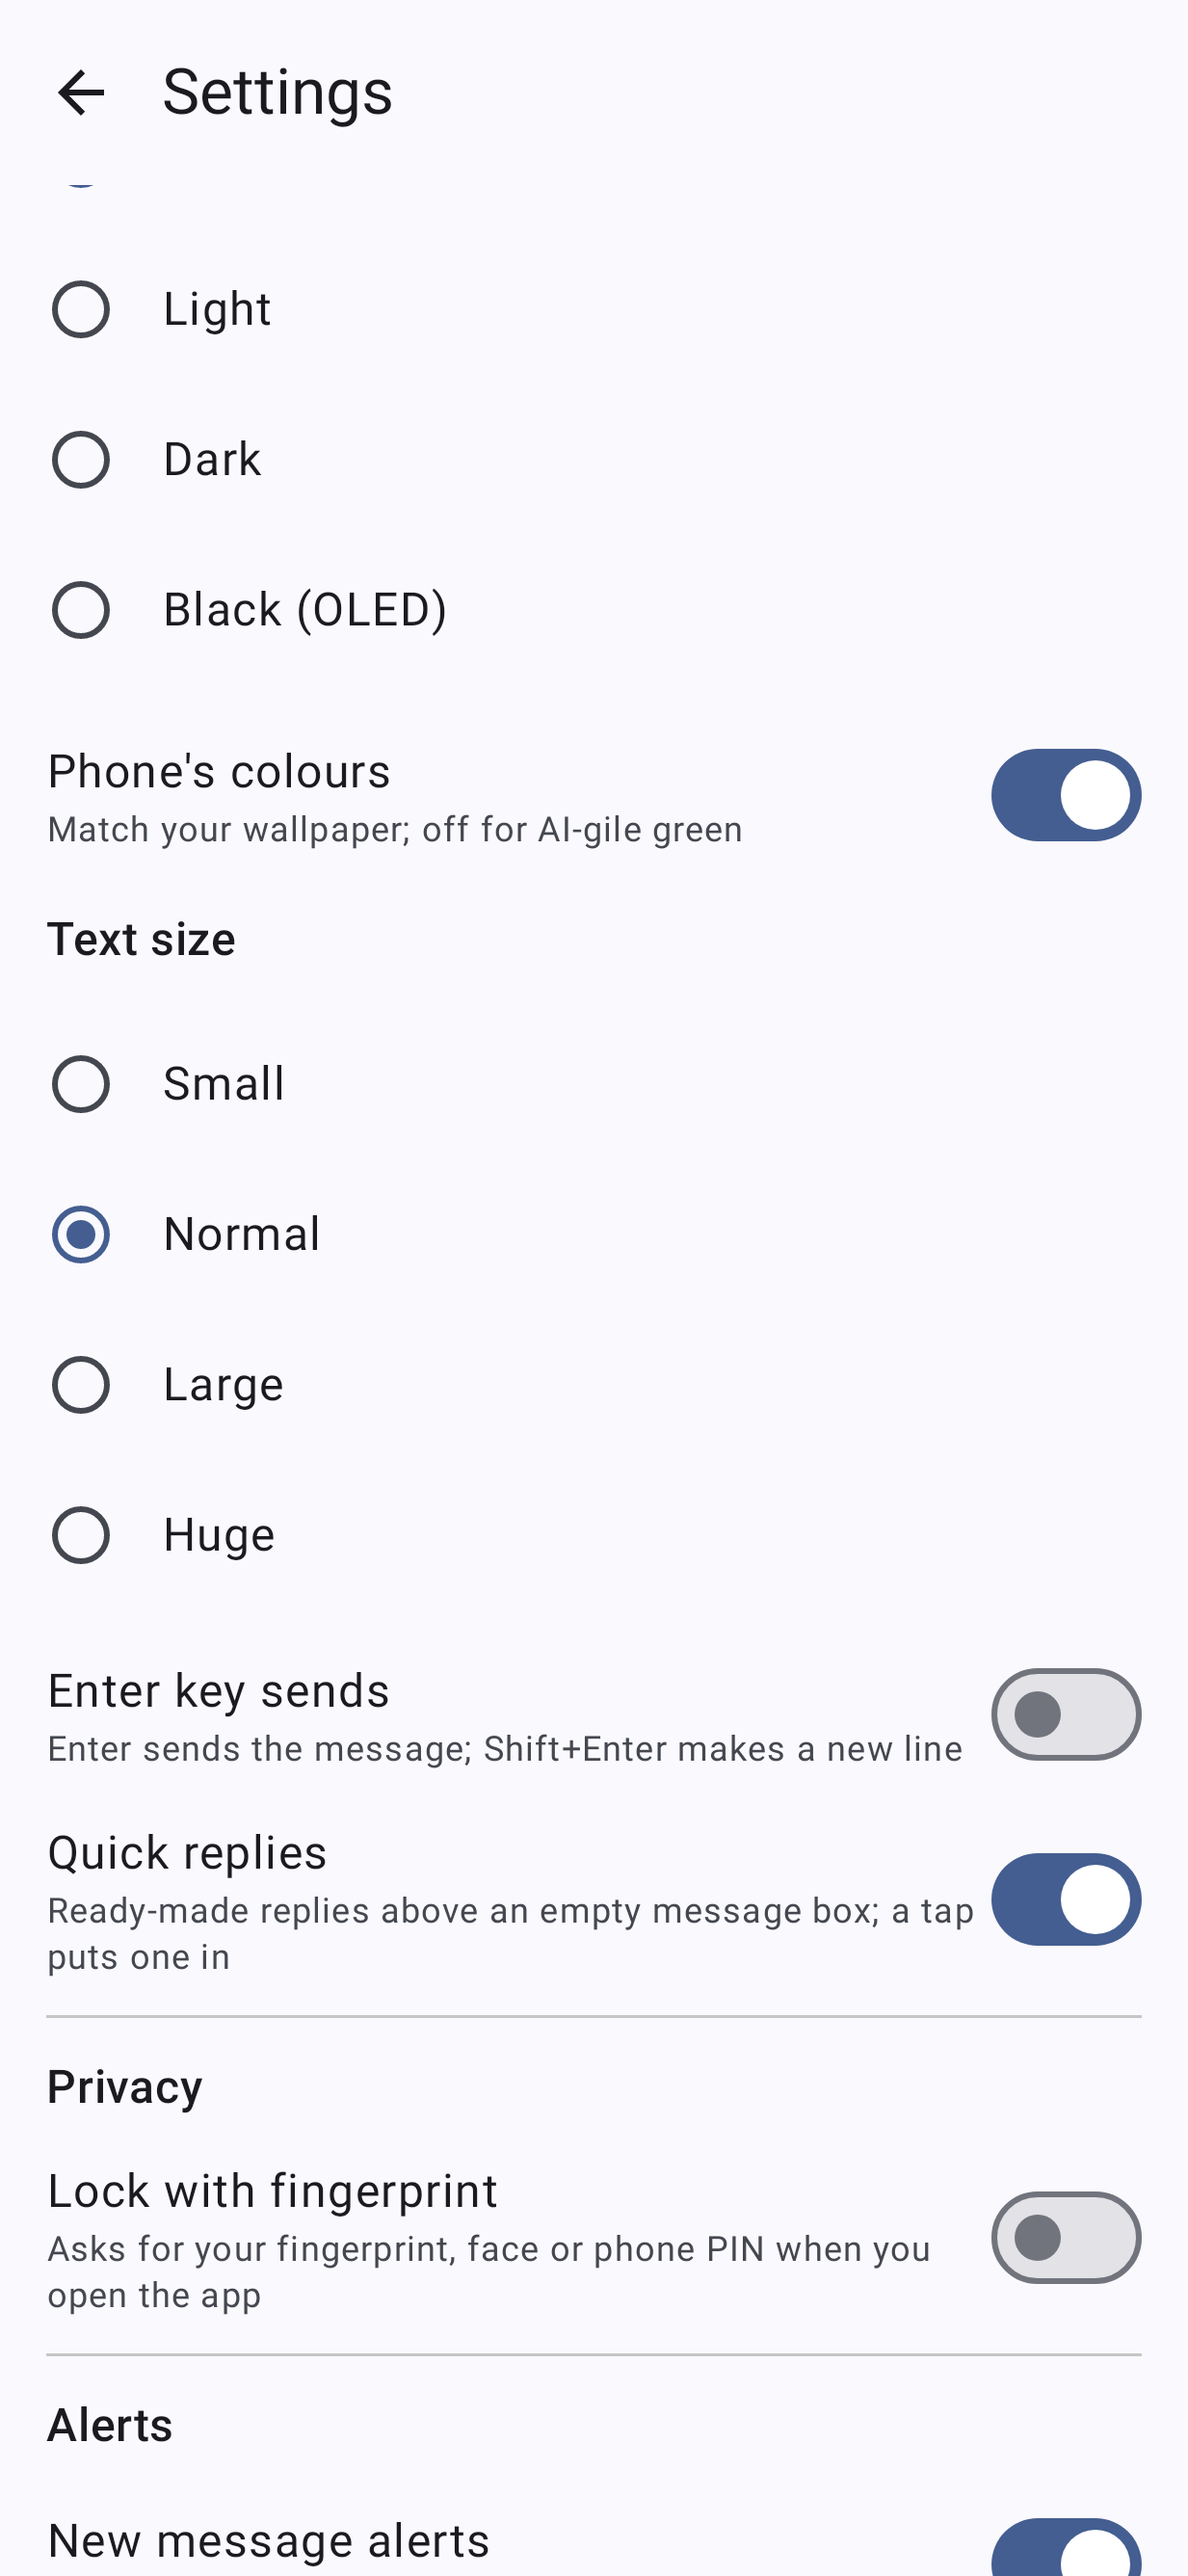
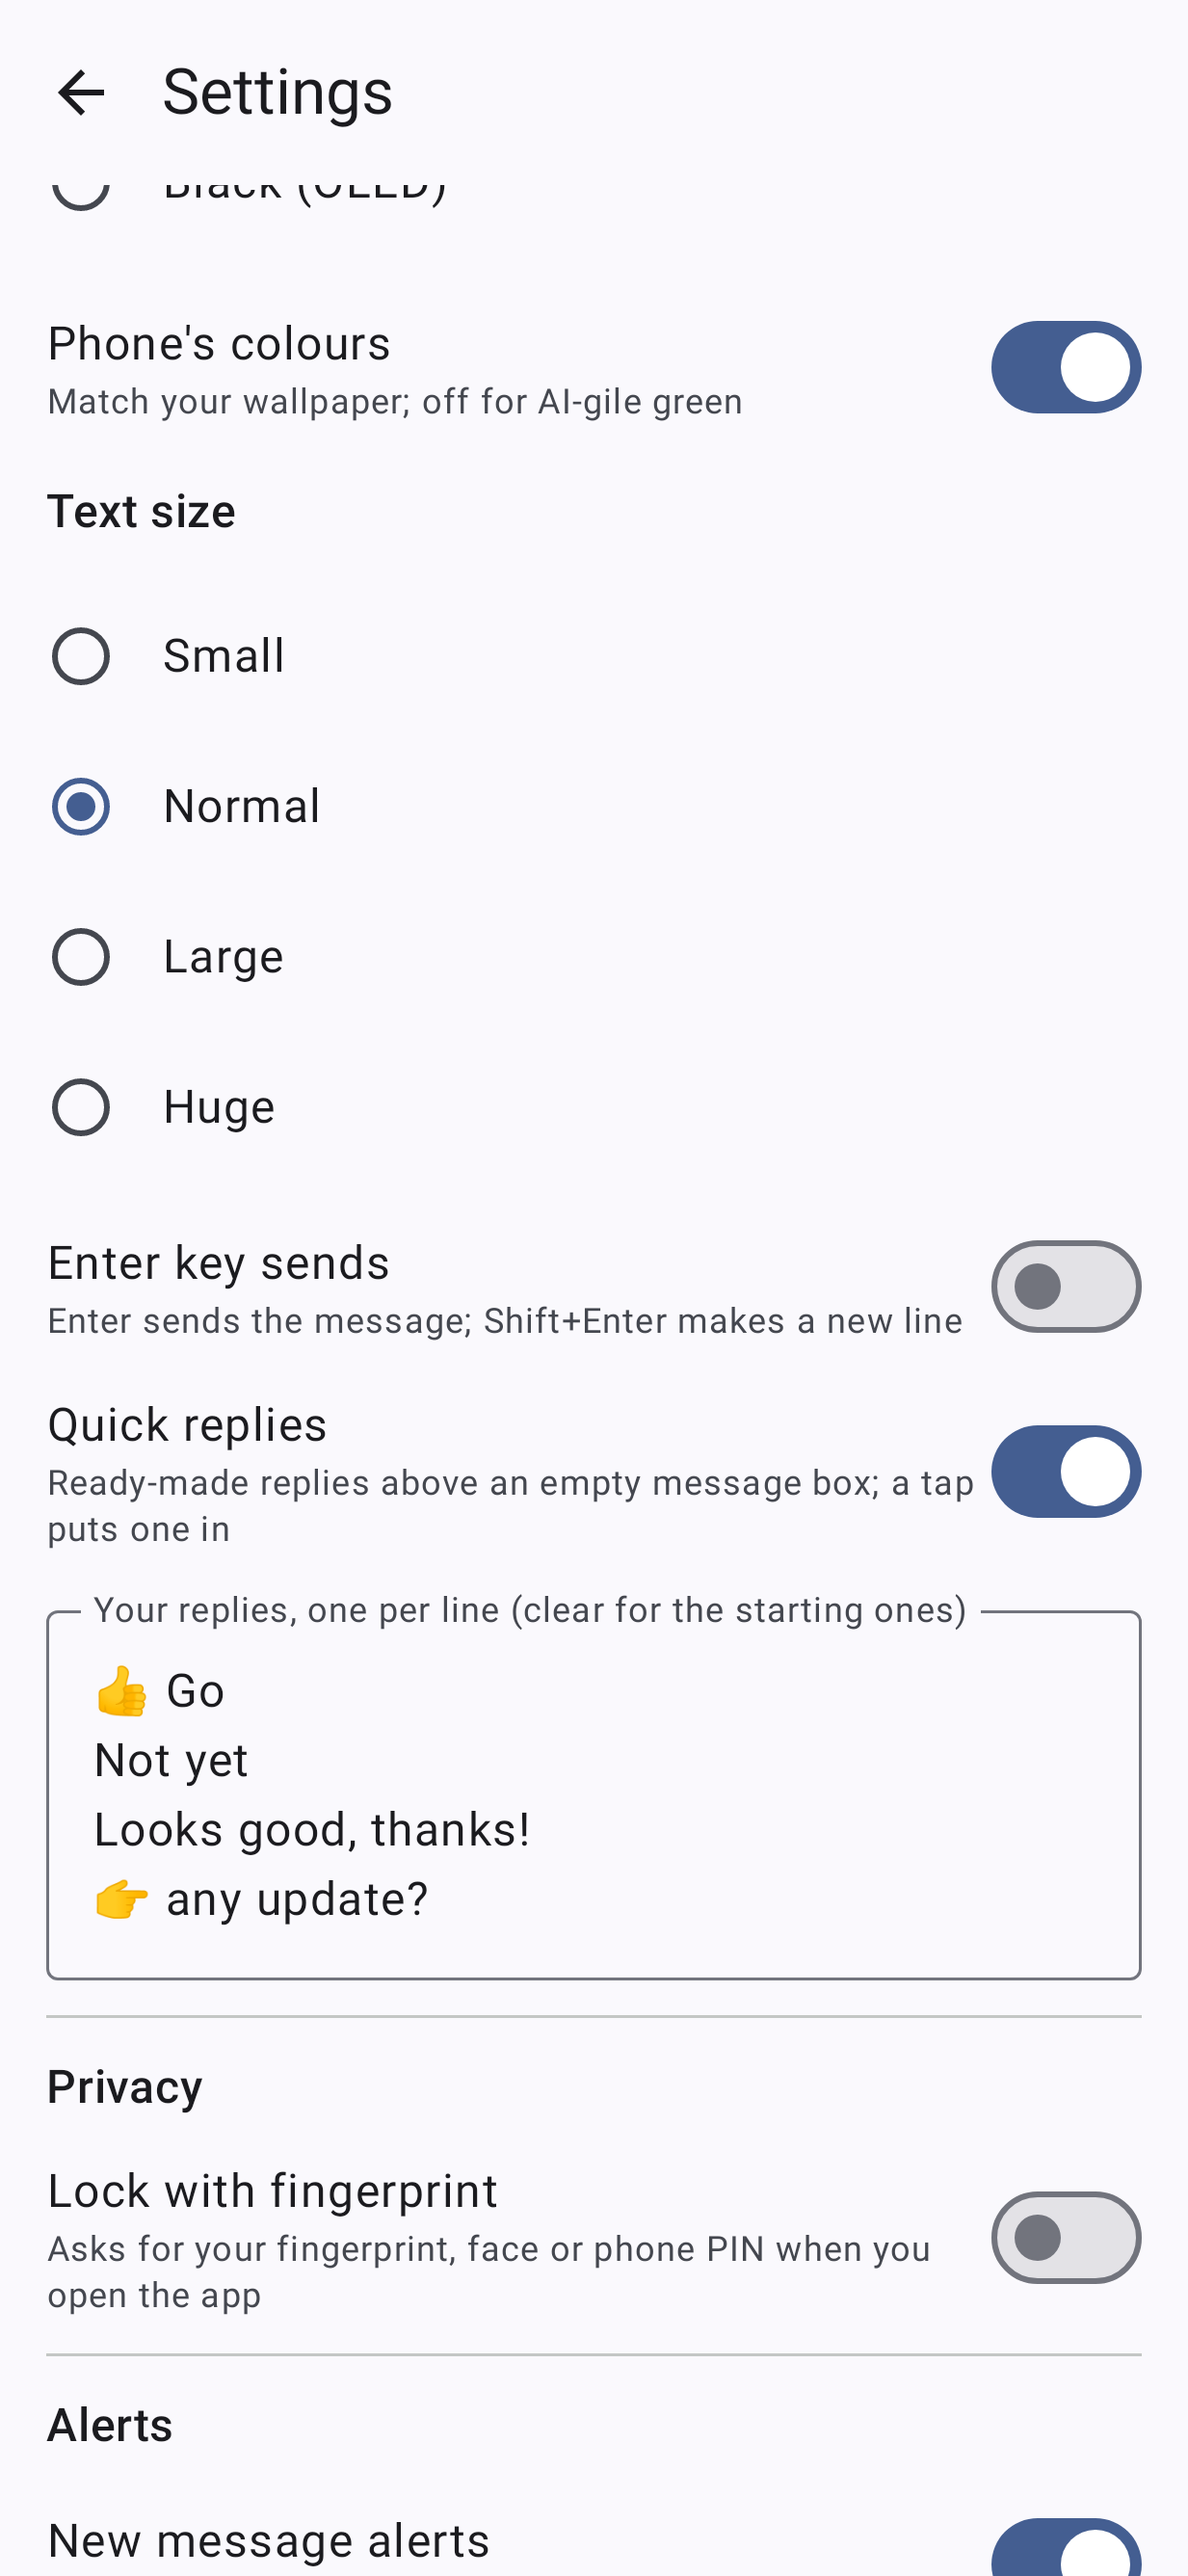
Quick replies: write your own in Settings, one per line (AII-180)

diff --git a/app/src/test/java/com/smizflark/aigile/messenger/screens/ChatShotTest.kt b/app/src/test/java/com/smizflark/aigile/messenger/screens/ChatShotTest.kt
@@ -287,6 +287,23 @@ class ChatShotTest : ShotBase() {
         rule.onNodeWithTag("quickReplies").onChildren().filterToOne(androidx.compose.ui.test.isToggleable()).performClick()
         try { org.junit.Assert.assertFalse(repo.store.quickReplies || Appearance.quickReplies) } finally { Appearance.quickReplies = false; repo.store.quickReplies = true }
     }
+    /** AII-180: type your own replies in Settings; the chat shows them; clear the box and the starting ones are back. */
+    @Test fun ownQuickReplies() {
+        val c = chats.first { it.kind == com.smizflark.aigile.messenger.data.Kind.FRIEND }; prime(c)
+        var settings by androidx.compose.runtime.mutableStateOf(true)
+        rule.setContent { MessengerTheme { if (settings) SettingsScreen(repo, {}, {}) else ChatScreen(repo, c, onBack = {}) } }
+        try {
+            rule.onNodeWithTag("quickReplyText").performScrollTo().performTextReplacement("On my way\n\nBack at 5")
+            org.junit.Assert.assertEquals(listOf("On my way", "Back at 5"), Appearance.replies)
+            settings = false; rule.waitForIdle()
+            rule.onNodeWithText("Back at 5").performClick()
+            rule.onNodeWithTag("input").assertTextEquals("Back at 5", includeEditableText = true)
+            rule.onAllNodesWithText("Not yet").assertCountEquals(0)
+            settings = true; rule.waitForIdle()
+            rule.onNodeWithTag("quickReplyText").performScrollTo().performTextReplacement("")
+            org.junit.Assert.assertEquals(emptyList<String>(), Appearance.replies)
+        } finally { Appearance.quickReplies = false; Appearance.replies = emptyList(); repo.store.quickReplyText = "" }
+    }
     /** AII-122: on a short screen, scroll to the bottom of the chats, tap the title: back at the first chat. */
     @Test @Config(qualifiers = "w411dp-h300dp-xxhdpi") fun titleTapGoesToTop() {
         RuntimeEnvironment.setQualifiers("+notnight")

diff --git a/app/src/main/java/com/smizflark/aigile/messenger/ui/SettingsScreen.kt b/app/src/main/java/com/smizflark/aigile/messenger/ui/SettingsScreen.kt
@@ -58,6 +58,8 @@ import com.smizflark.aigile.messenger.BuildConfig
 import com.smizflark.aigile.messenger.data.Mapper
 import com.smizflark.aigile.messenger.data.Crash
 import com.smizflark.aigile.messenger.data.Repo
+import com.smizflark.aigile.messenger.data.Replies
+import androidx.compose.ui.res.stringArrayResource
 import com.smizflark.aigile.messenger.work.CheckWorker
 import kotlinx.coroutines.launch
 
@@ -108,6 +110,13 @@ fun SettingsScreen(repo: Repo, onBack: () -> Unit, onSignedOut: () -> Unit) {
             }
             Toggle(stringResource(R.string.quick_replies), stringResource(R.string.quick_replies_sub), Appearance.quickReplies, Modifier.testTag("quickReplies")) {
                 Appearance.quickReplies = it; s.quickReplies = it
+            }
+            // AII-180: write your own, one per line; clear the box to get the starting ones back.
+            if (Appearance.quickReplies) {
+                val starting = stringArrayResource(R.array.quick_replies_list).joinToString("\n")
+                var mine by remember { mutableStateOf(s.quickReplyText.ifBlank { starting }) }
+                OutlinedTextField(mine, { mine = it; s.quickReplyText = it; Appearance.replies = Replies.parse(it) },
+                    Modifier.fillMaxWidth().testTag("quickReplyText"), label = { Text(stringResource(R.string.quick_replies_mine)) }, minLines = 2)
             }
             HorizontalDivider()
 

diff --git a/app/src/main/java/com/smizflark/aigile/messenger/data/Store.kt b/app/src/main/java/com/smizflark/aigile/messenger/data/Store.kt
@@ -134,6 +134,11 @@ class Store(context: Context) {
         get() = settings.getBoolean("quickReplies", true)
         set(v) = settings.edit().putBoolean("quickReplies", v).apply()
 
+    /** Your own quick replies, one per line (AII-180); empty means the starting ones. */
+    var quickReplyText: String
+        get() = settings.getString("quickReplyText", "") ?: ""
+        set(v) = settings.edit().putString("quickReplyText", v).apply()
+
     /** Chats pinned to the top of the list (AII-47), by chat key. */
     var pinned: Set<String>
         get() = settings.getStringSet("pinned", emptySet())?.toSet() ?: emptySet()
@@ -246,7 +251,7 @@ class Store(context: Context) {
     companion object {
         const val SETTINGS = "settings"
         /** The preferences that go into backup. Everything else stays in the "messenger" file. */
-        val BACKED_UP = listOf("alerts", "quietFrom", "quietTo", "quietOn", "look", "phoneColours", "textSize", "enterSends", "quickReplies", "pinned", "muted")
+        val BACKED_UP = listOf("alerts", "quietFrom", "quietTo", "quietOn", "look", "phoneColours", "textSize", "enterSends", "quickReplies", "quickReplyText", "pinned", "muted")
 
         /** One-time move of the settings out of the pairing file, so the pairing file can stay out of backup. */
         fun moveSettings(from: SharedPreferences, to: SharedPreferences) {

diff --git a/app/src/main/java/com/smizflark/aigile/messenger/ui/Theme.kt b/app/src/main/java/com/smizflark/aigile/messenger/ui/Theme.kt
@@ -78,9 +78,11 @@ object Appearance {
     var enterSends by mutableStateOf(false)
     /** Quick replies above an empty message box (AII-179); off until loaded, so screenshots stay as they were. */
     var quickReplies by mutableStateOf(false)
+    /** Your own quick replies (AII-180); empty means the starting ones. */
+    var replies by mutableStateOf(emptyList<String>())
 
     fun load(store: Store) {
-        if (look == null) { look = Look.of(store.look); phoneColours = store.phoneColours; textSize = TextSize.of(store.textSize); enterSends = store.enterSends; quickReplies = store.quickReplies }
+        if (look == null) { look = Look.of(store.look); phoneColours = store.phoneColours; textSize = TextSize.of(store.textSize); enterSends = store.enterSends; quickReplies = store.quickReplies; replies = com.smizflark.aigile.messenger.data.Replies.parse(store.quickReplyText) }
     }
 }
 

diff --git a/app/src/test/java/com/smizflark/aigile/messenger/RepliesTest.kt b/app/src/test/java/com/smizflark/aigile/messenger/RepliesTest.kt
@@ -1,0 +1,16 @@
+package com.smizflark.aigile.messenger
+
+import com.smizflark.aigile.messenger.data.Replies
+import org.junit.Assert.assertEquals
+import org.junit.Test
+
+/** AII-180: your own quick replies, one per line. */
+class RepliesTest {
+    @Test fun onePerLineInOrder() = assertEquals(listOf("Go", "Later"), Replies.parse("Go\nLater"))
+
+    @Test fun blanksAndSpacesLeftOut() = assertEquals(listOf("Go", "Later"), Replies.parse("  Go \n\n   \nLater\r\n"))
+
+    @Test fun repeatsOnce() = assertEquals(listOf("Go"), Replies.parse("Go\nGo"))
+
+    @Test fun emptyMeansStarting() = assertEquals(emptyList<String>(), Replies.parse(" \n "))
+}

diff --git a/app/src/main/java/com/smizflark/aigile/messenger/ui/ChatComposer.kt b/app/src/main/java/com/smizflark/aigile/messenger/ui/ChatComposer.kt
@@ -253,7 +253,7 @@ private fun SendButton(canSend: Boolean, onSend: () -> Unit, onSendLater: ((Inst
 @Composable
 private fun QuickReplies(onPick: (String) -> Unit) {
     Row(Modifier.fillMaxWidth().horizontalScroll(rememberScrollState()).testTag("quick-replies"), horizontalArrangement = Arrangement.spacedBy(6.dp)) {
-        stringArrayResource(R.array.quick_replies_list).forEach { reply ->
+        Appearance.replies.ifEmpty { stringArrayResource(R.array.quick_replies_list).toList() }.forEach { reply ->
             SuggestionChip(onClick = { onPick(reply) }, label = { Text(reply, maxLines = 1) })
         }
     }

diff --git a/app/src/test/java/com/smizflark/aigile/messenger/screens/ShotBase.kt b/app/src/test/java/com/smizflark/aigile/messenger/screens/ShotBase.kt
@@ -32,7 +32,7 @@ abstract class ShotBase {
         chats = runBlocking { repo.chats() }
         repo.store.updateChecked = Now.millis()   // AII-132: no GitHub call in screenshot tests
         // AII-179: Settings loads the saved settings (quick replies on) afresh each test; every other shot keeps them off as before.
-        Appearance.look = null; Appearance.quickReplies = false
+        Appearance.look = null; Appearance.quickReplies = false; Appearance.replies = emptyList()
     }
 
     @After fun tearDown() { Now.clock = java.time.Clock.systemDefaultZone() }

diff --git a/app/src/main/java/com/smizflark/aigile/messenger/data/Replies.kt b/app/src/main/java/com/smizflark/aigile/messenger/data/Replies.kt
@@ -1,0 +1,7 @@
+package com.smizflark.aigile.messenger.data
+
+/** Your own quick replies (AII-180), typed in Settings one per line. */
+object Replies {
+    /** The replies in the order typed: blank lines and repeats left out. Empty means the app's starting ones. */
+    fun parse(text: String): List<String> = text.lines().map { it.trim() }.filter { it.isNotEmpty() }.distinct()
+}

diff --git a/docs/CODEMAP.md b/docs/CODEMAP.md
@@ -25,6 +25,7 @@ Kotlin under `app/src/main/java/com/smizflark/aigile/messenger/` (paths below ar
 - data/Pins.kt: pinned chats first.
 - data/QuickReply.kt: replying from the notification.
 - data/Quote.kt: quoting a message in a reply.
+- data/Replies.kt: your own quick replies, one per line in Settings (AII-180).
 - data/Recent.kt: recent searches, newest first, at most 5 (AII-155).
 - data/Repo.kt: the one place screens and background checks get chats from.
 - data/ScrollPlace.kt: remembers where you left each chat.
